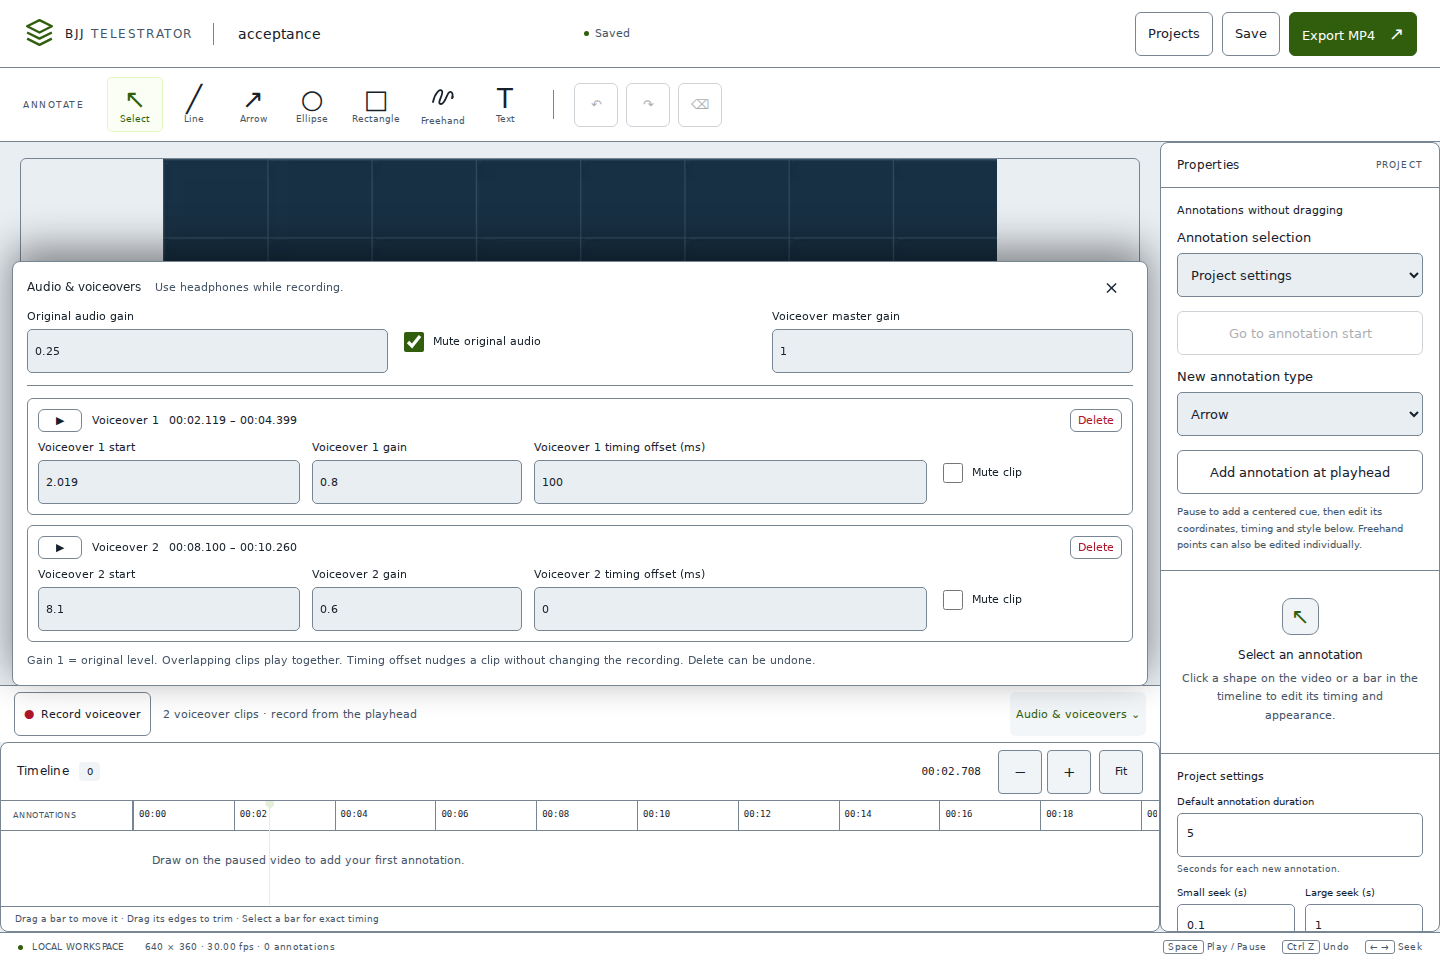
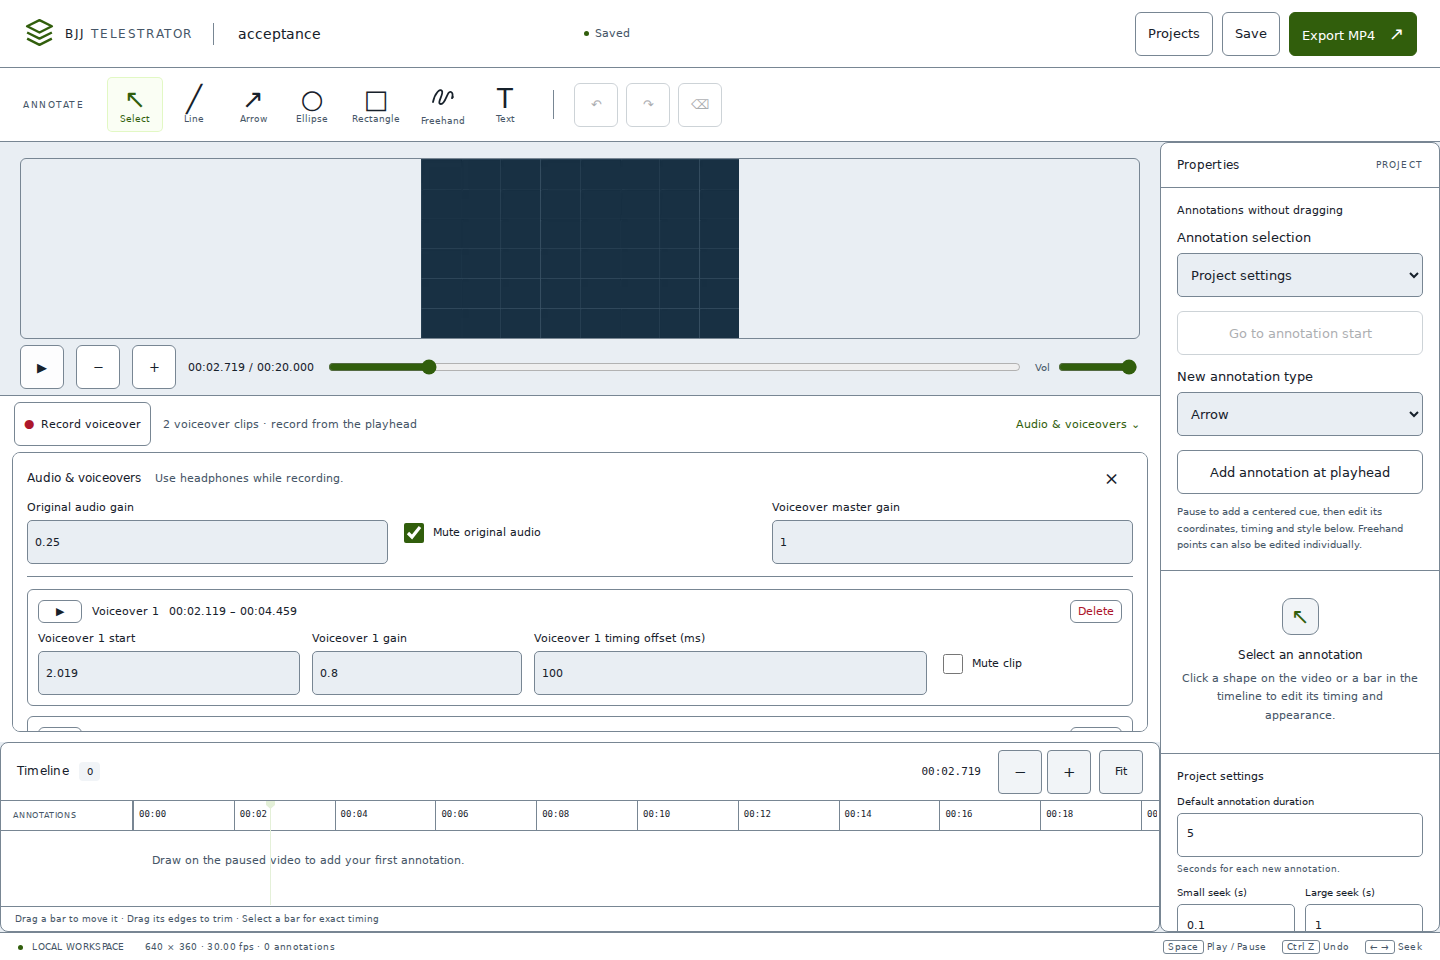
fix(P1.07,P1.08): keep playback reachable with expanded narration controls
Local source commit: 8aaa933ea92f69c20341f286fd57d901463d61c9

diff --git a/frontend/src/accessibility.css b/frontend/src/accessibility.css
@@ -196,6 +196,14 @@ label:has(> input[type='checkbox']) {
 .audio-drawer {
   max-height: min(70dvh, 520px);
 }
+@media (min-width: 1000px) {
+  .audio-drawer {
+    position: static;
+    margin: 0 12px 10px;
+    max-height: min(35dvh, 280px);
+    box-shadow: none;
+  }
+}
 .audio-drawer input[type='number'],
 .color-control input[type='color'] {
   min-height: 44px;
